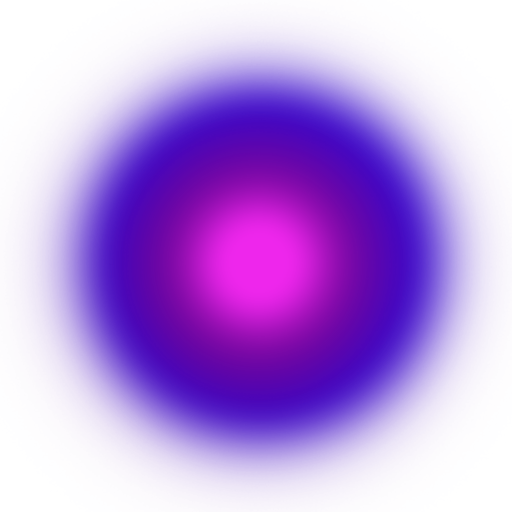
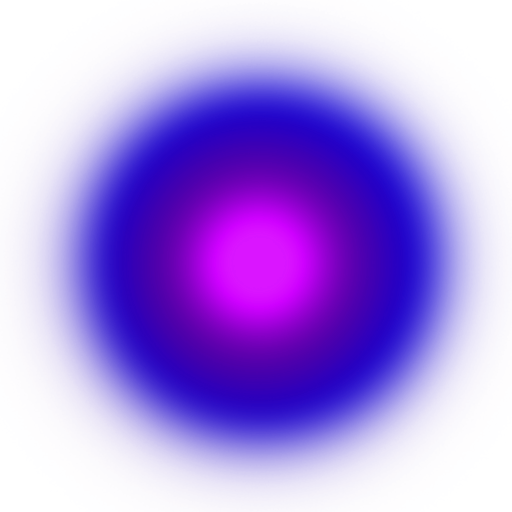
dot-grid-colors

diff --git a/components/DotGrid.vue b/components/DotGrid.vue
@@ -13,34 +13,42 @@ import {
   WebGLRenderer,
   Float32BufferAttribute,
   AdditiveBlending,
+  // Vector3,
+  Color,
 } from 'three'
 
 import { mapState } from 'vuex'
 
 const vertexshader = `
 attribute float scale;
+
 void main() {
-
     vec4 mvPosition = modelViewMatrix * vec4( position, 1.0 );
-
     gl_PointSize = scale * ( 300.0 / - mvPosition.z );
-
     gl_Position = projectionMatrix * mvPosition;
-
 }`
 
-const fragmentshader = `
-uniform sampler2D pointTexture;
+// const fragmentshader = `
+// uniform sampler2D pointTexture;
 
+// void main() {
+//     if ( length( gl_PointCoord - vec2( 0.5, 0.5 ) ) > 0.475 ) discard;
+//     gl_FragColor = vec4(1.0, 1.0, 1.0, 1.0);
+//     gl_FragColor = gl_FragColor * texture2D( pointTexture, gl_PointCoord );
+// }
+// `
+
+const fragmentshader2 = `
+uniform sampler2D pointTexture;
+uniform vec3 color;
 void main() {
 
     if ( length( gl_PointCoord - vec2( 0.5, 0.5 ) ) > 0.475 ) discard;
 
-    gl_FragColor = vec4(1.0, 1.0, 1.0, 1.0);
+    gl_FragColor = vec4( color, 1.0 );
     gl_FragColor = gl_FragColor * texture2D( pointTexture, gl_PointCoord );
 
-}
-`
+}`
 
 // function onPointerLeftClick(event) {
 //   // TODO smooth rotate on click
@@ -52,15 +60,15 @@ export default {
   name: 'DotGrid',
   data() {
     return {
-      SEPARATION: 100,
-      AMOUNTX: 120,
-      AMOUNTY: 70,
+      SEPARATION: 120,
+      AMOUNTX: 220,
+      AMOUNTY: 90,
       SCALE: 2,
       clock: new Clock(),
     }
   },
   computed: {
-    ...mapState('DotGrid', ['x', 'y']),
+    ...mapState('DotGrid', ['x', 'y', 'z', 'rotx', 'roty', 'rotz', 'color']),
   },
   mounted() {
     this.$nextTick(() => {
@@ -74,6 +82,7 @@ export default {
       const width = window.innerWidth
       const height = window.innerHeight
 
+      let grid_color = component.color
       let rotStep = 0
       let mouseX = 0
       let mouseY = 0
@@ -96,8 +105,9 @@ export default {
         100,
         sizes.width / sizes.height,
         2,
-        10000
+        12000
       )
+      camera.position.set(0, 0, 0)
       scene.add(camera)
 
       const material = new ShaderMaterial({
@@ -105,9 +115,12 @@ export default {
           pointTexture: {
             value: new TextureLoader().load(require('static/sqTest2.png')),
           },
+          color: {
+            value: new Color(grid_color),
+          },
         },
         vertexShader: vertexshader,
-        fragmentShader: fragmentshader,
+        fragmentShader: fragmentshader2,
         blending: AdditiveBlending,
         depthTest: false,
         transparent: true,
@@ -156,6 +169,7 @@ export default {
 
       // OnResize
       window.addEventListener('resize', () => {
+        // TODO update on resize
         // Update sizes
         sizes.width = window.innerWidth
         sizes.height = window.innerHeight
@@ -182,33 +196,42 @@ export default {
 
       function animate(elapsedTime) {
         // Comment out below to allow camera to react to DotGrid state
-        // const grid_x = component.x
-        // const grid_y = component.y
+        const grid_x = component.x
+        const grid_y = component.y
+        const grid_z = component.z
+        grid_color = component.color
+        const grid_rotx = component.rotx
+        const grid_roty = component.roty
+        const grid_rotz = component.rotz
 
-        // camera.position.x += (mouseX - grid_x - camera.position.x) * 0.05 + 15
-        // camera.position.y +=
-        //   (-mouseY - -1 * grid_y - camera.position.y) * 0.05 + 35
+        // console.log(grid_rotx)
+        // console.log(grid_roty)
+        // console.log(grid_rotz)
+        // console.log(grid_color)
+        // console.log(width)
 
-        camera.position.x += (mouseX - camera.position.x) * 0.05 + 15
-        camera.position.y += (-mouseY - camera.position.y) * 0.05 + 35
+        camera.position.x += (mouseX - grid_x - camera.position.x) * 0.05 + 15
+        camera.position.y += (-mouseY - grid_y - camera.position.y) * 0.05 + 35
+        camera.position.z += (grid_z - camera.position.z) * 0.05
+        camera.rotation.y += (grid_roty - camera.rotation.y) * 0.05
+        camera.rotation.x += (grid_rotx - camera.rotation.x) * 0.05
+        camera.rotation.z += (grid_rotz - camera.rotation.z) * 0.05
 
-        // camera.rotation.y +=  (-mouseX - camera.rotation.y ) * .000005;
+        // camera.lookAt(
+        //   new Vector3(camera.position.x, camera.position.y, camera.position.z)
+        // )
 
-        rotStep = camera.rotation.y + (-mouseX - camera.rotation.y) * 0.0000005
-
-        if (rotStep > -0.2 && rotStep < 0.2) {
+        rotStep = camera.rotation.y + (mouseX - camera.rotation.y) * 0.0000005
+        if (rotStep > -0.05 && rotStep < 0.05) {
           camera.rotation.y = rotStep
         }
-
-        // camera.rotation.y += ( mouseX - camera.rotation.y )/1200000;
-        // camera.lookAt( scene.position );
 
         const positions = particles.geometry.attributes.position.array
         const scales = particles.geometry.attributes.scale.array
 
         let i = 0
         let j = 0
-
+        elapsedTime /= 1.5
         for (let ix = 0; ix < component.AMOUNTX; ix++) {
           for (let iy = 0; iy < component.AMOUNTY; iy++) {
             positions[i + 1] =
@@ -224,6 +247,10 @@ export default {
             j++
           }
         }
+        particles.material.uniforms.color.value = new Color(grid_color)
+        // particles.material.color.set = grid_color
+        // particles.material.needsUpdate = true
+
         updateGeometry(positions, scales)
       }
 

diff --git a/store/DotGrid.js b/store/DotGrid.js
@@ -1,26 +1,97 @@
 const page_name__config = {
-  index: { x: 0, y: -800, sinx: 0.1, siny: 0.13 },
-  mission: { x: -400, y: -250, sinx: 0.3, siny: 0.2 },
-  about: { x: -800, y: -550, sinx: 0.6, siny: 0 },
-  'guide-category-article': { x: -600, y: -700, sinx: 0.6, siny: 0 },
-  guide: { x: -600, y: -700, sinx: 0.6, siny: 0 },
-  null: { x: -600, y: -700, sinx: 0.6, siny: 0 },
-  contact: { x: -400, y: -600, sinx: 0.1, siny: 0.15 },
+  index: {
+    x: 0,
+    y: -300,
+    z: 0,
+    rotx: 0.0,
+    roty: 0.0,
+    rotz: 0.0,
+    color: '#ffffff',
+    texture: 'static/sqTest2.png',
+  },
+  mission: {
+    x: -400,
+    y: -250,
+    rotx: 0.0,
+    roty: 0.0,
+    rotz: 0.0,
+    color: '#ffffff',
+    texture: 'static/sqTest2.png',
+  },
+  about: {
+    x: 0,
+    y: 400,
+    z: -1000,
+    rotx: -3.14,
+    roty: -1.57,
+    rotz: 0.0,
+    color: '#ffffff',
+    texture: 'static/sqTest2.png',
+  },
+  'guide-category-article': {
+    x: 2000,
+    y: -500,
+    z: -1500,
+    rotx: -0.5,
+    roty: -3.14,
+    rotz: 0,
+    color: '#ffffff',
+    texture: 'static/sqTest2.png',
+  },
+  guide: {
+    x: 0,
+    y: 0,
+    z: 0,
+    rotx: -3.14,
+    roty: 0.0,
+    rotz: 0.0,
+    color: '#ffffff',
+    texture: 'static/sqTest2.png',
+  },
+  null: {
+    x: -600,
+    y: -700,
+    z: 400,
+    rotx: 0.0,
+    roty: 0.0,
+    rotz: 0.0,
+    color: '#ffffff',
+    texture: 'static/sqTest2.png',
+  },
+  contact: {
+    x: -400,
+    y: -600,
+    z: 300,
+    rotx: 0.0,
+    roty: 0.0,
+    rotz: -0.75,
+    color: '#ffffff',
+    texture: 'static/sqTest2.png',
+  },
 }
 export const state = () => ({
   x: 85,
   y: -345,
-  sinx: 0,
-  siny: 0,
+  z: 0,
+  rotx: 0.0,
+  roty: 0.0,
+  rotz: 0.0,
+  color: '#ffffff',
+  texture: 'static/sqTest2.png',
 })
 
 export const mutations = {
   set_config(state, page_name) {
-    const { x, y, sinx, siny } = page_name__config[page_name]
-
+    const { x, y, z, rotx, roty, rotz, color, texture } = page_name__config[
+      page_name
+    ]
     state.x = x
     state.y = y
-    state.sinx = sinx
-    state.siny = siny
+    state.z = z
+    state.rotx = rotx
+    state.roty = roty
+    state.rotz = rotz
+    state.color = color
+    state.texture = texture
   },
 }
